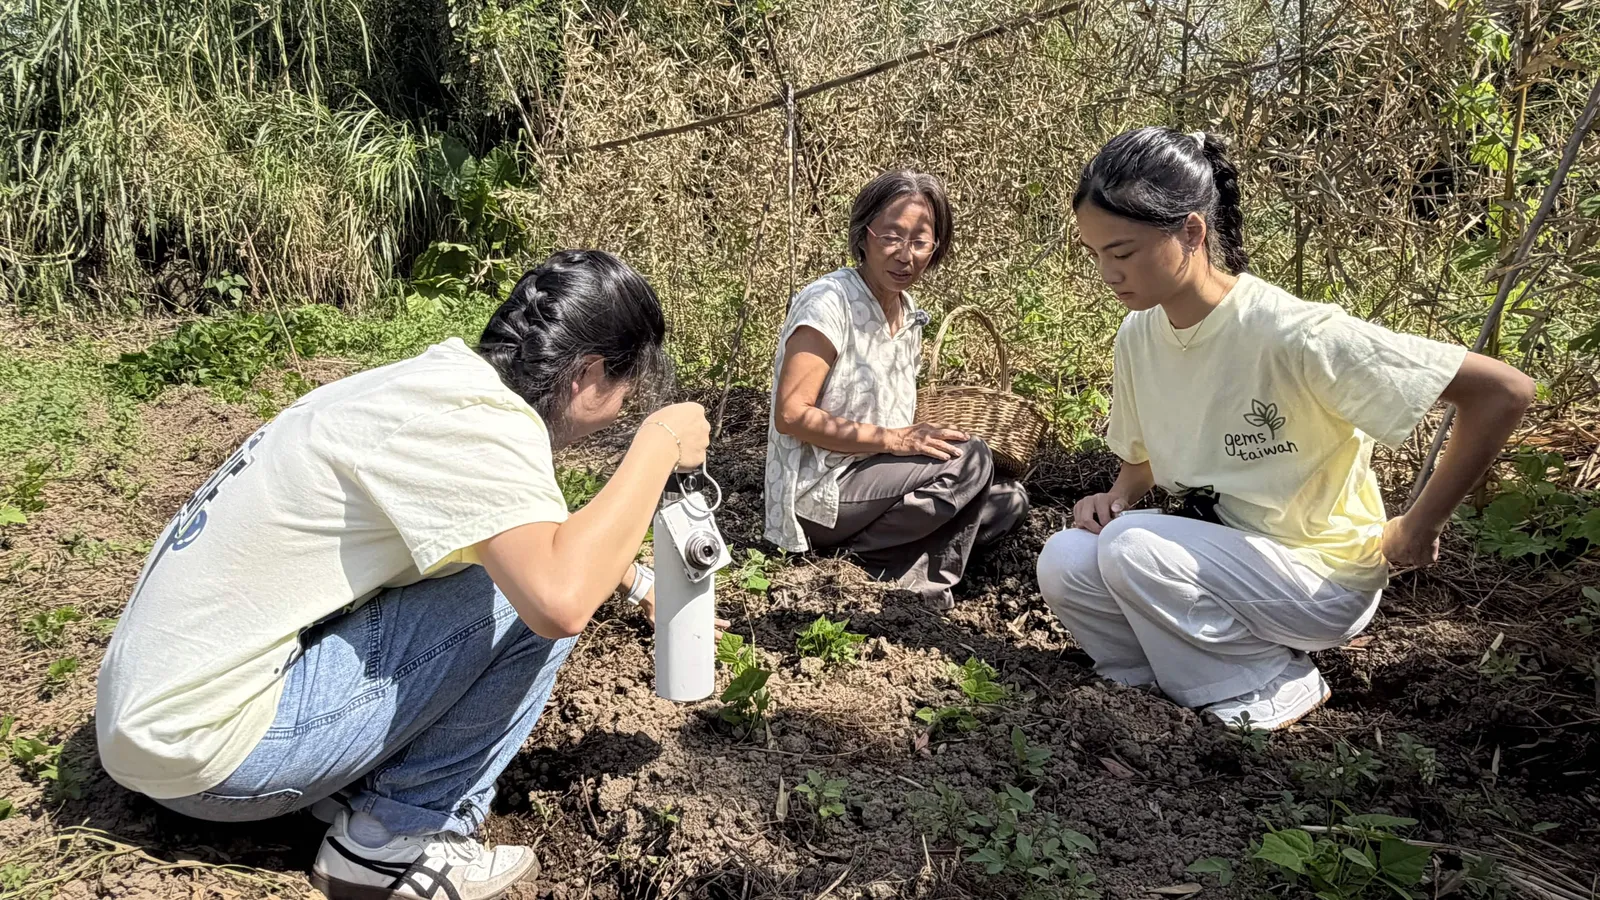
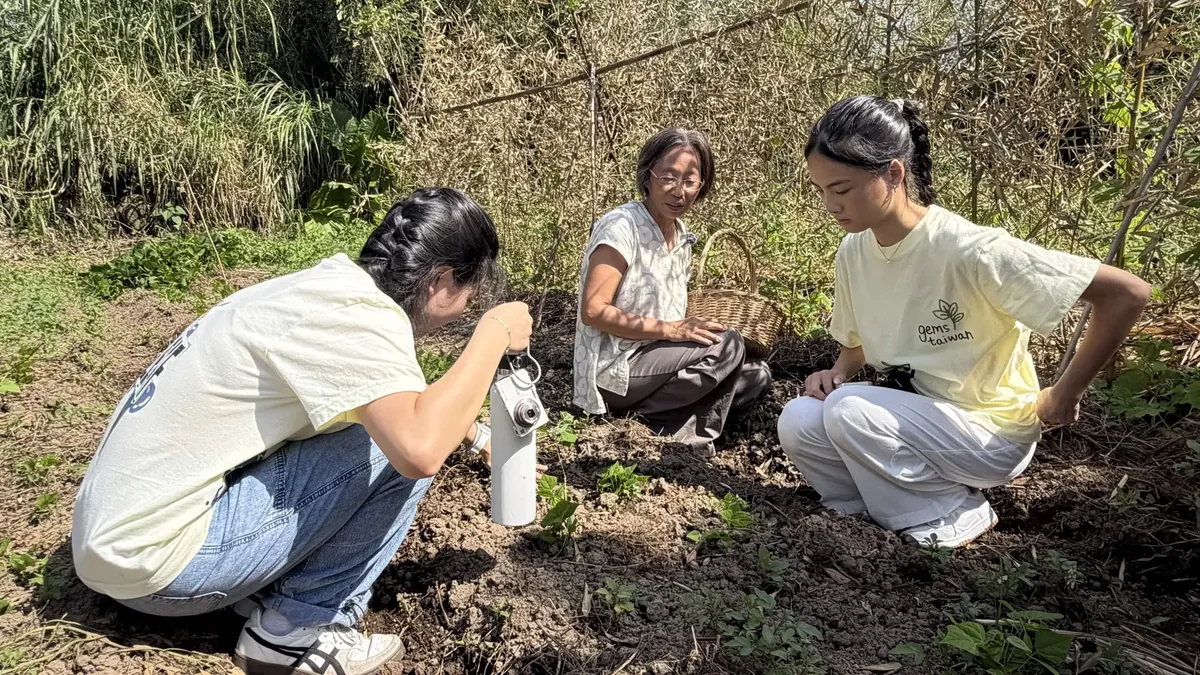
Sustainability: consultation table stacks on phones and runs in date order; soil photo re-encoded at 1200px (462 to 275 KB); lesson photo served as webp

diff --git a/sustainability/index.html b/sustainability/index.html
@@ -9,7 +9,7 @@
   <link rel="stylesheet" href="../assets/css/tokens.css" />
   <link rel="stylesheet" href="../assets/css/nav.css" />
   <link rel="stylesheet" href="../assets/css/page.css" />
-  <link rel="stylesheet" href="sus.css?v=20260928" />
+  <link rel="stylesheet" href="sus.css?v=20260929r2" />
 </head>
 <body class="sus">
 <!--
@@ -198,7 +198,7 @@
         <div class="figs figs--2">
           <figure class="fig fig--photo">
             <div class="fig__frame">
-              <img src="../assets/img/education/hero-classroom-1400.jpg"
+              <img src="../assets/img/education/hero-classroom-1400.webp"
                    alt="A ReLeaf team member teaching a high school class in front of a projected slide reading Abiotic vs Biotic Stress, with students seated at desks facing the board."
                    width="1400" height="788" loading="lazy" decoding="async" />
             </div>
@@ -260,7 +260,7 @@
             <div class="fig__frame">
               <img src="../assets/img/human-practices/farm-tamsui-soil.webp"
                    alt="Ms. Chen crouched in a vegetable bed beside a basket, with two students kneeling to look at the soil."
-                   width="1600" height="900" loading="lazy" decoding="async" />
+                   width="1200" height="675" loading="lazy" decoding="async" />
             </div>
             <figcaption class="ai"><b>Figure 7.</b> Ms. Chen showing us what she reads in her soil.</figcaption>
           </figure>
@@ -295,14 +295,14 @@
                 <td>The account of climate damage on generational farmland under SDG&nbsp;2, and the social enterprise model behind SDG&nbsp;10.</td>
               </tr>
               <tr>
-                <th scope="row">Ms. Chen, natural farmer, Tamsui</th>
-                <td>21 July 2026</td>
-                <td>The dependency objection under potential negatives.</td>
-              </tr>
-              <tr>
                 <th scope="row">CH Biotech</th>
                 <td>9 July 2026</td>
                 <td>The commercial peptide used in the plant tests under SDG&nbsp;2, and the regulatory work behind SDG&nbsp;15&rsquo;s containment question.</td>
+              </tr>
+              <tr>
+                <th scope="row">Ms. Chen, natural farmer, Tamsui</th>
+                <td>21 July 2026</td>
+                <td>The dependency objection under potential negatives.</td>
               </tr>
               <tr>
                 <th scope="row">Public forum, speakers and the floor</th>

diff --git a/sustainability/sus.css b/sustainability/sus.css
@@ -225,6 +225,17 @@
 }
 .sus table.data tbody tr:last-child td { border-bottom: 1px solid var(--gray-400); }
 
+/* on a phone the three-column consultation table stacks: who, then when, then
+   what it changed, so the last column is not cut off behind a sideways scroll */
+@media (max-width: 34rem) {
+  .sus #stakeholder-consultation table.data thead { position: absolute; width: 1px; height: 1px; overflow: hidden; clip: rect(0 0 0 0); }
+  .sus #stakeholder-consultation table.data tr { display: block; padding: var(--sp-3) var(--sp-4); border-bottom: 1px solid var(--gray-200); }
+  .sus #stakeholder-consultation table.data th,
+  .sus #stakeholder-consultation table.data td { display: block; padding: 0; border: 0; }
+  .sus #stakeholder-consultation table.data tbody td:nth-of-type(1) { margin: .15rem 0 .4rem; font-size: var(--text-xs); color: var(--gray-500); }
+  .sus #stakeholder-consultation table.data tbody tr:last-child { border-bottom: 0; }
+}
+
 /* =============================================================== PRINT ===== */
 
 @media print {
